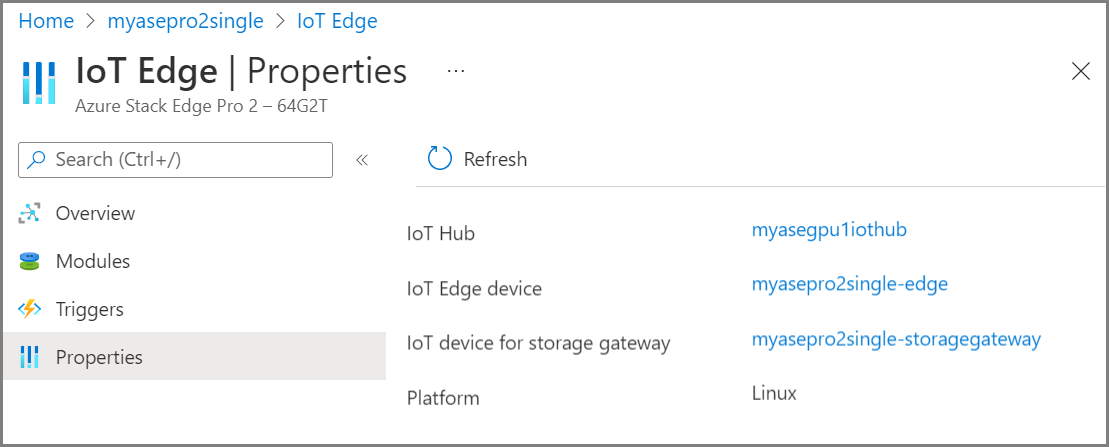
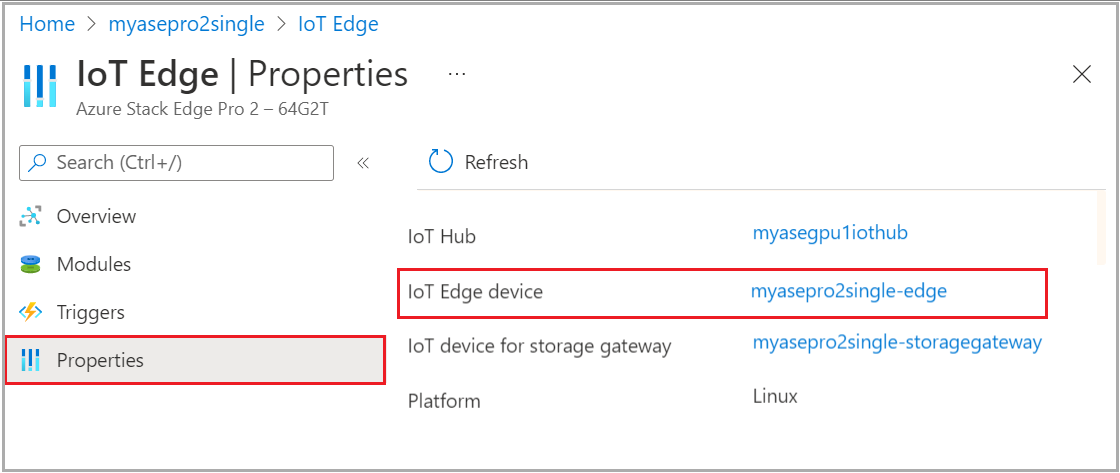
final updates for draft README article

diff --git a/Scripts/IotEdgeScript/README.md b/Scripts/IotEdgeScript/README.md
@@ -7,7 +7,7 @@ author: alkohli
 ms.service: databox
 ms.subservice: pod
 ms.topic: sample
-ms.date: 05/12/2022
+ms.date: 05/13/2022
 ms.author: alkohli
 
 # Customer intent: As an IT pro, I want to quickly use an IoT Edge module to access data from an Azure Stack Edge local share.
@@ -23,18 +23,18 @@ This example shows how to use an IoT Edge module to access data from an Azure St
 
 Before you begin, make sure you have:
 
-- An Azure Stack Edge device that's activated. For more information, see [Activate Azure Stack Edge Pro with GPU](https://docs.microsoft.com/azure/databox-online/azure-stack-edge-gpu-deploy-activate).
+- An Azure Stack Edge device that's activated with a resource in Azure. For more information, see [Activate Azure Stack Edge Pro with GPU](https://docs.microsoft.com/azure/databox-online/azure-stack-edge-gpu-deploy-activate).
 - A Windows client that can connect to your Azure Stack Edge device.
-- An Azure subscription to use for your Azure Stack Edge resources.
-- Get the sample code.
+- Access to an Azure subscription that was used with your Azure Stack Edge device.
+- The sample code.
 
-### Get the sample code
+## Step 1. Get the sample code
 
-1. Go to [Azure Stack Edge deploy VMs in Azure-Samples](https://github.com/Azure-Samples/azure-stack-edge-deploy-vms), and clone or download the zip file for code.
+1. Go to [Azure Stack Edge deploy VMs in Azure-Samples](https://github.com/Azure-Samples/azure-stack-edge-deploy-vms).
 
-1. Download or clone the zip file to the local system. Extract files from the zip folder, and note where you save the file.
+1. Select **<> Code** and then download the zip file to the local system. Extract files from the zip folder, and note where you save the file.
 
-   ![Screenshot of the clone repo dialog in github.](media/readme/clone-or-download-the-zip-file-5.png)
+   ![Screenshot of the download zip dialog in github.](media/readme/clone-or-download-the-zip-file-5.png)
 
    Contents of the script file:
 
@@ -46,7 +46,7 @@ Before you begin, make sure you have:
     print(contents)`
    ```
 
-## Step 1. Create and configure an Edge local share
+## Step 2. Create and configure an Edge local share
 
 1. Create an Edge local share, and name it `myshare1`.
 
@@ -58,11 +58,11 @@ Before you begin, make sure you have:
 
    Use these steps to [connect to the local share](https://docs.microsoft.com/azure/databox-online/azure-stack-edge-gpu-deploy-add-shares#connect-to-the-share).
 
-1. From the [IotEdgeScript](https://github.com/Azure-Samples/azure-stack-edge-deploy-vms/IotEdgeScript/) folder, add the `HelloWorld.txt` file to the local share.
+1. Use File Explorer to add the `HelloWorld.txt` file to the local share. This file is located in the  [IotEdgeScript](https://github.com/Azure-Samples/azure-stack-edge-deploy-vms/IotEdgeScript/) folder.
 
-## Step 2. Create an app and corresponding container to read from the local share
+## Step 3. Create an app and corresponding container to read from the local share
 
-Create a container image using the code. Output is an IoT Edge container that will enable you to read from the local share.
+Create a container image using the sample code. Output is an IoT Edge container that will enable you to read from the local share.
 
 1. Create an Azure Container Registry. Use the following steps to [create an Azure container registry](https://docs.microsoft.com/azure/container-registry/container-registry-get-started-portal).
 
@@ -77,23 +77,23 @@ Create a container image using the code. Output is an IoT Edge container that wi
 
 The result is an IoT Edge container.
 
-## Step 3. Create a deployment using the IoT Edge module
+## Step 4. Create a deployment using the IoT Edge module
 
 You'll now create a deployment using the IoT Edge module that you created in the earlier step.
 
 1. On an Azure Stack Edge device that's activated, make sure that the IoT Edge service is enabled.
 
-   ![Screenshot that shows the healthy status of the IoT Edge service.](media/readme/iot-edge-service-status-1.png)
+   ![Screenshot that shows the health status of the IoT Edge service.](media/readme/iot-edge-service-status-1.png)
 
-1. Configure the Edge compute role. When this role is configured, the **Properties** would show the IoT Hub resource associated with your Azure Stack Edge device.
+1. Configure the Edge compute role. When this role is configured, the **Properties** would show the IoT Hub resource and the IoT Edge device associated with your Azure Stack Edge.
 
-   ![Screenshot that shows properties of the IoT Edge compute role.](media/readme/iot-edge-compute-role-properties-2.png)
+   ![Screenshot that shows properties of the IoT Hub resource and the IoT Edge device associated with your Azure Stack Edge.](media/readme/iot-edge-compute-role-properties-2.png)
 
-1. Go to the IoT Hub resource and deploy the IoT Edge module using the steps described in this article: [Configure and run a module on GPU on Azure Stack Edge Pro device](https://docs.microsoft.com/azure/databox-online/azure-stack-edge-gpu-configure-gpu-modules), with the following differences:
+1. Select the link for the **IoT Edge device** and deploy the IoT Edge module using the steps described in this article: [Configure and run a module on GPU on Azure Stack Edge Pro device](https://docs.microsoft.com/azure/databox-online/azure-stack-edge-gpu-configure-gpu-modules), with the following differences:
 
    1. On the **Module settings** tab, the image URI would be the information from your Azure Container Registry.
 
-      ![Screenshot that shows the image URI for the IoT Edge module.](media/readme/iot-edge-module-image-uri-3.png)
+      ![Screenshot that shows the image URI from your Azure Container Registry.](media/readme/iot-edge-module-image-uri-3.png)
 
    1. Provide the container create option as shown here:
 
@@ -110,7 +110,7 @@ You'll now create a deployment using the IoT Edge module that you created in the
 
       In our example, the deployment file looks like this:
 
-      ```python
+      ```json
       {
       "modulesContent": {
       "$edgeAgent": {
@@ -183,9 +183,15 @@ You'll now create a deployment using the IoT Edge module that you created in the
 
       ![Screenshot that shows the helloworld IoT Edge custom module is running.](media/readme/helloworld-iot-edge-custom-module-is-running-4.png)
 
-## Step 4. Review output from the container logs
+## Step 5. Review output from the container logs
 
-Here's a sample output:
+Follow these steps to get the container logs:
+
+1. [Connect to the Kubernetes cluster on your Azure Stack Edge via kubectl](https://docs.microsoft.com/azure/databox-online/azure-stack-edge-gpu-create-kubernetes-cluster).
+
+1. [Get the container logs](https://docs.microsoft.com/azure/databox-online/azure-stack-edge-gpu-connect-powershell-interface#to-get-container-logs).
+
+Here's a sample output from the log file:
 
    ```python
    kubectl logs --tail=2
